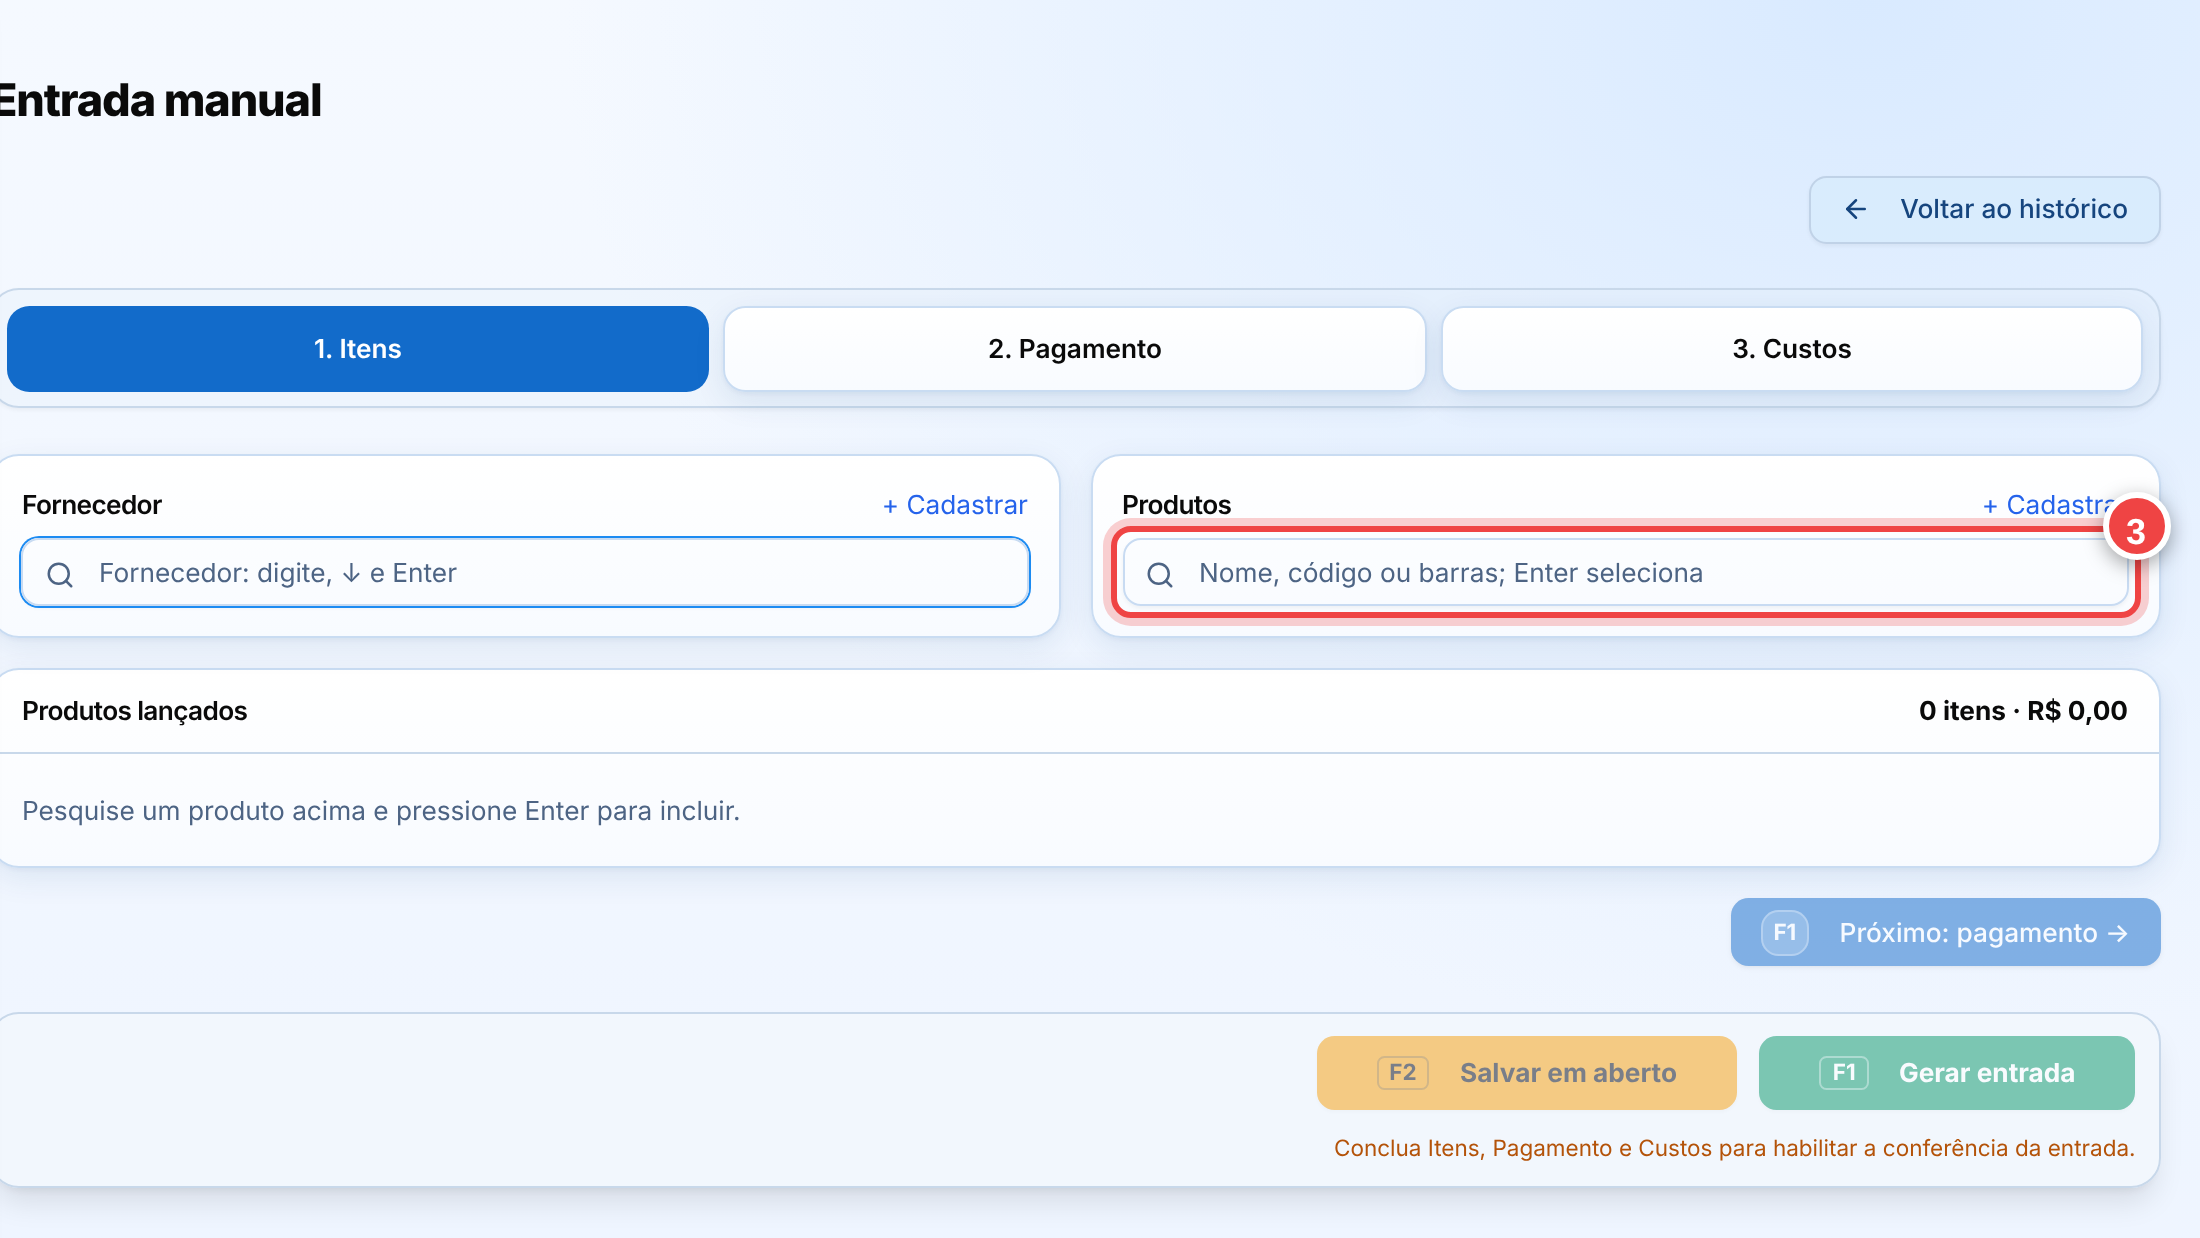
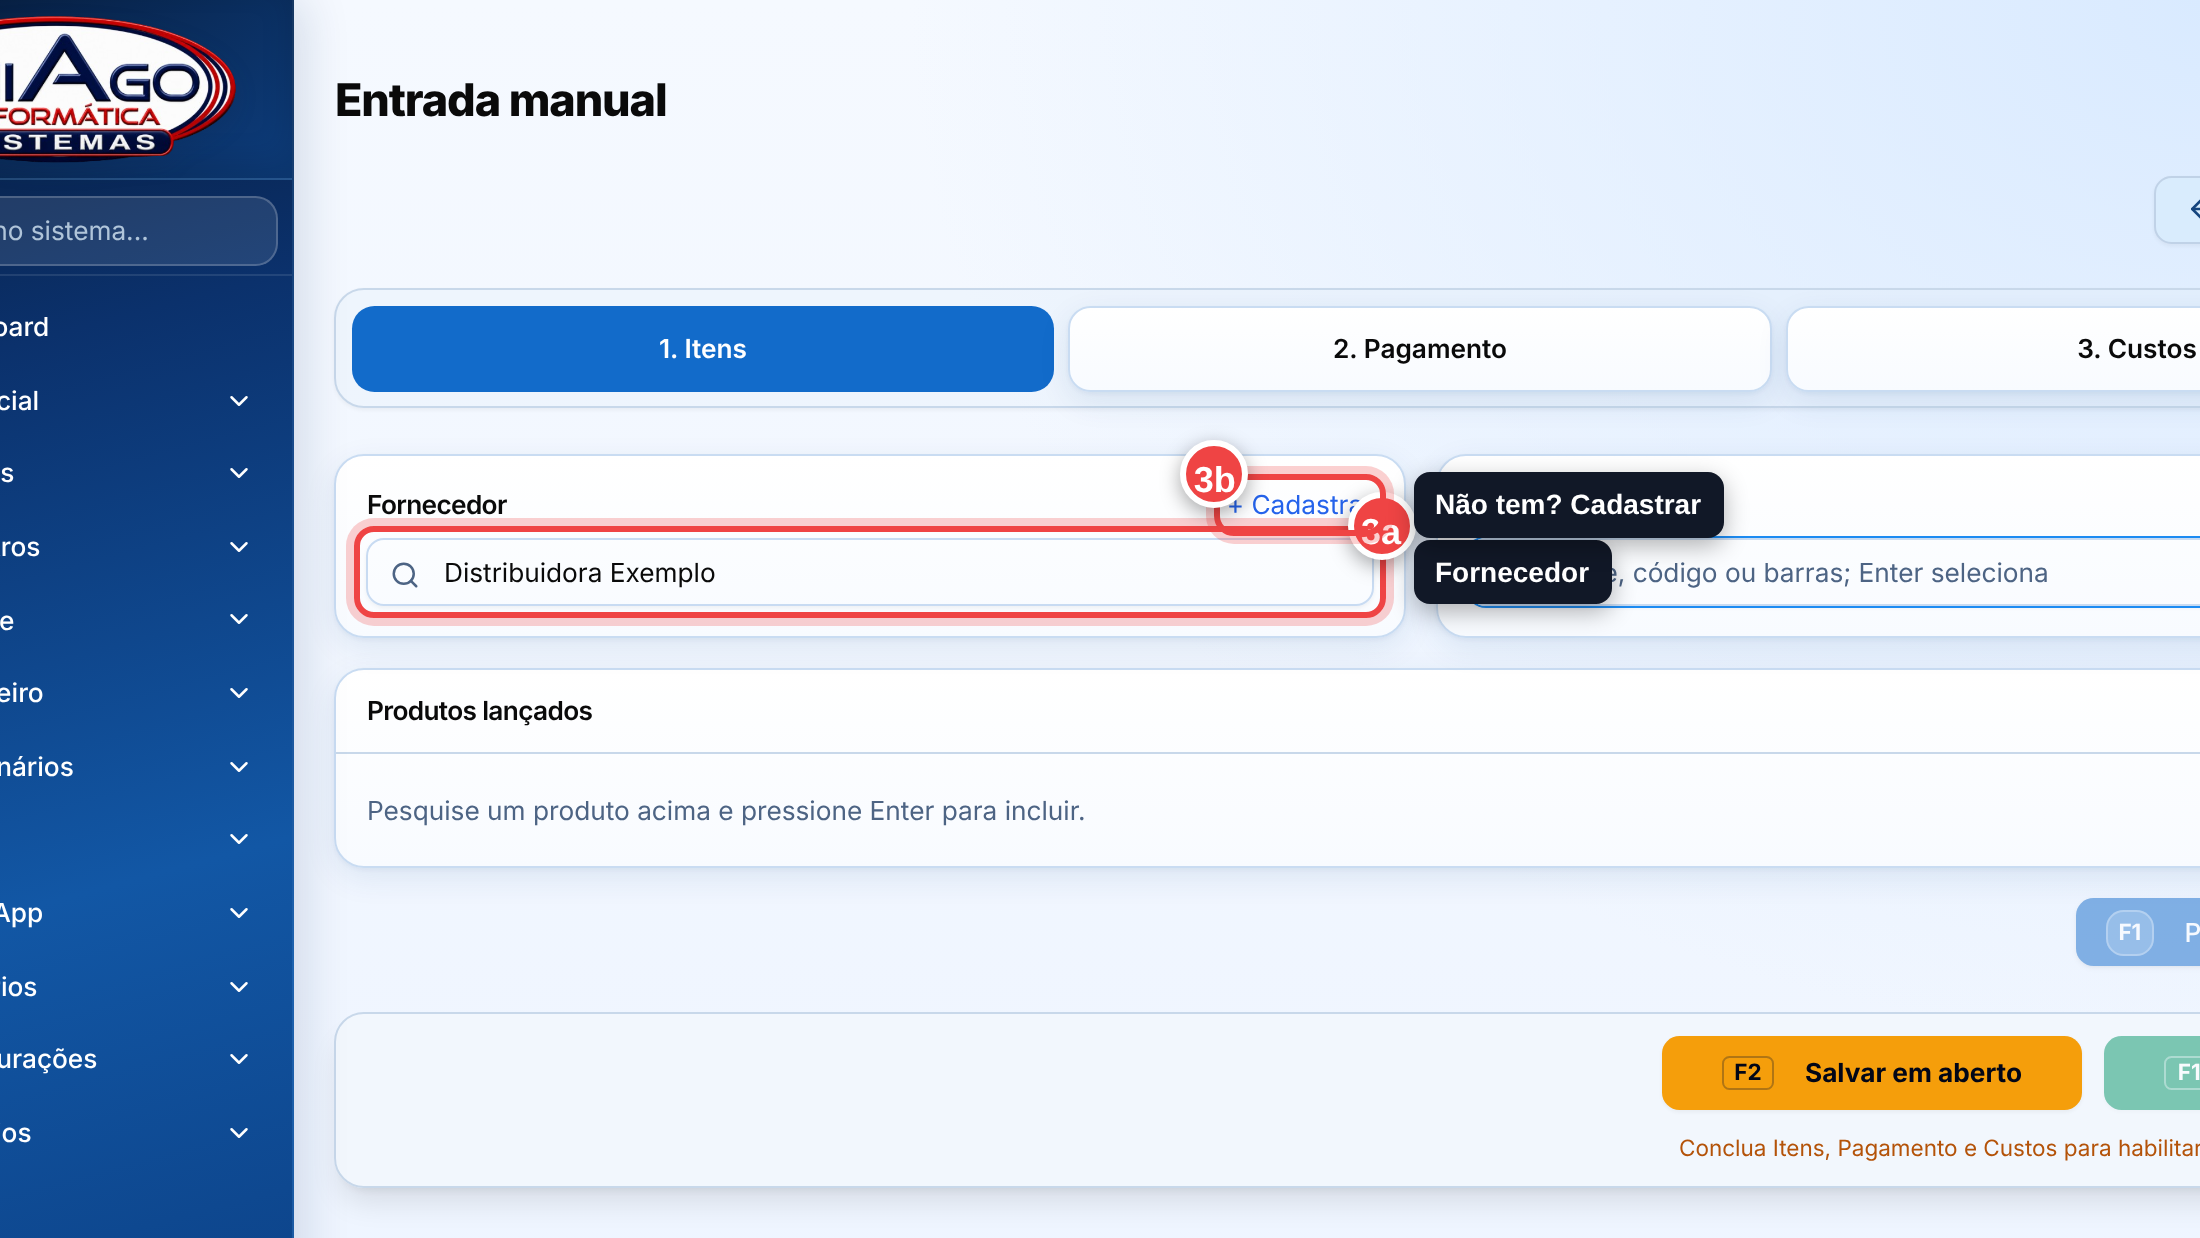
Entrada manual detalhada: roteiro de 15 passos (tributação IA, fiscal, cadastro na hora) e espera cortada no vídeo
Claude-Session: https://claude.ai/code/session_01RyHuxN9gx9DVU1E5ti7Cs8

diff --git a/tutoriais/roteiros/61-entrada-manual.js b/tutoriais/roteiros/61-entrada-manual.js
@@ -1,46 +1,161 @@
+// Entrada manual de mercadoria (sem nota), DETALHADA para cliente leigo (pedido do dono, 27/11/2026): feita de verdade
+// na Demonstração, do começo ao fim. Fornecedor fictício "Distribuidora Exemplo". Um produto NOVO é cadastrado dentro
+// da própria entrada (Carregador Turbo USB-C 20W), com a tributação buscada pela "Tributação IA" e conferida na aba
+// Fiscal (e o que fazer se a busca não achar). Um produto que já existe entra pelo código. Pagamento no Pix, custos,
+// e a entrada é gerada (estoque sobe e o pagamento vai para o contas a pagar).
 module.exports = {
   id: 'entrada-manual',
   ordem: 61,
   grupo: 'Estoque',
-  titulo: 'Entrada manual de mercadoria (sem nota)',
-  resumo: 'Lance uma compra à mão: produtos, pagamento e preço de venda.',
-  antesDeComecar: 'O fornecedor e os produtos podem ser cadastrados na hora, dentro da própria entrada.',
+  titulo: 'Entrada manual de mercadoria, passo a passo',
+  gravaDados: true,
+  valoresReais: true, // custo e preço do produto novo: a conta tem que fechar
+  manter: ['Distribuidora Exemplo', 'Carregador Turbo USB-C 20W', 'FONE DE OUVIDO SEM FIO TWS M25', '25153507', '25,00', '59,90', '85044090', '8504.40.90', '85.04.40.90', '2105300', '21.053.00', '5102', '6102', '5405', '6404'], // NCM/CEST/CFOP de verdade (são do produto, não de cliente)
+  assunto: { chave: ['entrada manual', 'entrada de mercadoria', 'entrada sem nota', 'entrada de nota manual', 'compra', 'mercadoria chegou', 'tributação', 'ncm'], acoes: ['lançar', 'dar', 'fazer', 'cadastrar', 'buscar', 'como', 'entrada'], rotas: ['/estoque/entrada-manual'] },
+  resumo: 'Lance uma compra sem nota do começo ao fim: fornecedor, produto novo com tributação, quantidades, pagamento e custos.',
+  fala: 'Oi! Aqui é o Thiago, da Thiago Informática. Neste vídeo eu vou fazer uma entrada manual de mercadoria, do começo ao fim, bem devagar: inclusive cadastrar um produto novo e buscar a tributação dele. Bora lá!',
+  antesDeComecar: 'Ter o fornecedor em mãos. O produto e o fornecedor podem ser cadastrados na hora, dentro da própria entrada.',
   passos: [
     {
       ir: '/estoque/entrada-manual',
-      titulo: 'Clique em "Nova entrada"',
-      texto: 'No menu, clique em Estoque › Entrada Manual e depois em "Nova entrada" (atalho F1).',
-      marcar: [{ alvo: { papel: 'button', nome: /Nova entrada/ } }],
-      depois: [{ tipo: 'clicar', alvo: { papel: 'button', nome: /Nova entrada/ }, espera: 1500 }],
+      espera: 8000,
+      titulo: 'Abra a Entrada manual',
+      texto: 'No menu, clica em Estoque, Entrada manual. Aqui fica o histórico das suas compras. Pra lançar uma compra nova, é no botão Nova entrada.',
+      marcar: [{ alvo: { papel: 'button', nome: /Nova entrada/ }, legenda: 'Nova entrada' }],
     },
     {
-      titulo: 'Escolha o fornecedor',
-      texto: 'Digite o nome do fornecedor, use a seta para baixo e aperte Enter. Se ele não existe, clique em "+ Cadastrar".',
-      marcar: [{ alvo: { placeholder: 'Fornecedor: digite, ↓ e Enter' } }],
-    },
-    {
-      titulo: 'Lance os produtos',
-      texto: 'Digite o nome, código ou passe o código de barras e aperte Enter. Para cada produto, informe a quantidade e o custo unitário.',
-      marcar: [{ alvo: { placeholder: 'Nome, código ou barras; Enter seleciona' } }],
-    },
-    {
-      titulo: 'Informe o pagamento',
-      texto: 'Clique em "2. Pagamento", escolha a forma (à vista, boleto, a prazo) e as parcelas. As parcelas viram contas a pagar.',
-      marcar: [{ alvo: { papel: 'button', nome: '2. Pagamento' } }],
-    },
-    {
-      titulo: 'Confira os preços de venda',
-      texto: 'Em "3. Custos", veja o novo custo de cada produto. Você pode aplicar uma margem para todos ou manter os preços atuais.',
-      marcar: [{ alvo: { papel: 'button', nome: '3. Custos' } }],
-    },
-    {
-      titulo: 'Clique em "Gerar entrada"',
-      texto: 'Tudo certo? Clique em "Gerar entrada" (F1). O estoque sobe na hora. Se ainda não terminou, use "Salvar em aberto" (F2) e continue depois.',
+      antes: [{ tipo: 'clicar', alvo: { papel: 'button', nome: /Nova entrada/ }, seguro: true, espera: 2000 }],
+      titulo: 'As três etapas',
+      texto: 'Clicou em Nova entrada, a tela tem três etapas: um, os itens; dois, o pagamento; e três, os custos. A gente começa pelos itens.',
       marcar: [
-        { alvo: { papel: 'button', nome: /Salvar em aberto/ }, legenda: 'Continuar depois' },
-        { alvo: { papel: 'button', nome: /Gerar entrada/ }, legenda: 'Concluir' },
+        { alvo: { papel: 'button', nome: '1. Itens' }, legenda: '1 · Itens' },
+        { alvo: { papel: 'button', nome: '2. Pagamento' }, legenda: '2 · Pagamento' },
+        { alvo: { papel: 'button', nome: '3. Custos' }, legenda: '3 · Custos' },
       ],
-      dica: 'Depois de gerar, use "Imprimir etiquetas" para etiquetar os produtos que chegaram.',
+    },
+    {
+      antes: [
+        { tipo: 'preencher', alvo: { placeholder: 'Fornecedor: digite, ↓ e Enter' }, valor: 'Distribuidora Exemplo', espera: 1200 },
+        { tipo: 'esperar', alvo: { css: 'button.block:has-text("Distribuidora Exemplo")' }, espera: 300 },
+        { tipo: 'tecla', tecla: 'Enter', espera: 1200 },
+      ],
+      titulo: 'Escolha o fornecedor',
+      texto: 'Primeiro o fornecedor. Digita o nome de quem vendeu e aperta Enter pra escolher. Se ele ainda não tem cadastro, é só clicar em Cadastrar, aqui do lado, e cadastrar na hora.',
+      marcar: [
+        { alvo: { placeholder: 'Fornecedor: digite, ↓ e Enter' }, legenda: 'Fornecedor' },
+        { alvo: { css: 'div.rounded-2xl:has(h3:text-is("Fornecedor")) button:text-is("+ Cadastrar")' }, legenda: 'Não tem? Cadastrar' },
+      ],
+    },
+    {
+      antes: [{ tipo: 'preencher', alvo: { placeholder: 'Nome, código ou barras; Enter seleciona' }, valor: 'Carregador Turbo USB-C 20W', espera: 1500 }],
+      titulo: 'Produto que ainda não tem cadastro',
+      texto: 'Agora os produtos. Digita o nome, o código, ou bipa o código de barras. Se o produto já tem cadastro, ele aparece na lista e é só dar Enter. Esse carregador ainda não tem: então clica em Cadastrar novo produto.',
+      marcar: [{ alvo: { papel: 'button', nome: /Cadastrar novo produto/ }, legenda: 'Cadastrar novo produto' }],
+      depois: [
+        { tipo: 'clicar', alvo: { papel: 'button', nome: /Cadastrar novo produto/ }, seguro: true, espera: 1500 },
+        { tipo: 'esperar', alvo: { papel: 'heading', nome: 'Novo produto' }, espera: 1500 },
+      ],
+    },
+    {
+      antes: [
+        { tipo: 'preencher', alvo: { css: 'div.space-y-1\\.5:has(> label:text-is("Preço de custo")) input', dentro: 'dialog' }, valor: '25,00', espera: 500 },
+        { tipo: 'preencher', alvo: { css: 'div.space-y-1\\.5:has(> label:text-is("Preço de venda")) input', dentro: 'dialog' }, valor: '59,90', espera: 800 },
+      ],
+      titulo: 'Nome, custo e preço de venda',
+      texto: 'Abre o cadastro do produto, já com o nome que você digitou. Coloca o preço de custo, quanto você pagou, e o preço de venda. A margem é calculada sozinha.',
+      marcar: [
+        { alvo: { css: 'div.space-y-1\\.5:has(> label:text-is("Nome do produto *")) input', dentro: 'dialog' }, legenda: 'Nome' },
+        { alvo: { css: 'div.space-y-1\\.5:has(> label:text-is("Preço de custo")) input', dentro: 'dialog' }, legenda: 'Custo' },
+        { alvo: { css: 'div.space-y-1\\.5:has(> label:text-is("Preço de venda")) input', dentro: 'dialog' }, legenda: 'Venda' },
+      ],
+    },
+    {
+      antes: [
+        { tipo: 'clicar', alvo: { papel: 'button', nome: /Tributação IA/, dentro: 'dialog' }, seguro: true, espera: 800 },
+        { tipo: 'esperar', alvo: { papel: 'button', nome: 'Aplicar no produto' }, espera: 800 },
+      ],
+      titulo: 'Busque a tributação',
+      texto: 'Agora a tributação. Clica em Tributação IA: o sistema pesquisa pelo nome do produto, ou pela foto, e sugere o NCM, o CEST, o CSOSN e o CFOP. Lê com calma e, se estiver certo, clica em Aplicar no produto.',
+      marcar: [{ alvo: { papel: 'button', nome: 'Aplicar no produto' }, legenda: 'Aplicar no produto' }],
+      depois: [{ tipo: 'clicar', alvo: { papel: 'button', nome: 'Aplicar no produto' }, seguro: true, espera: 1500 }],
+    },
+    {
+      antes: [{ tipo: 'clicar', alvo: { papel: 'tab', nome: 'Fiscal', dentro: 'dialog' }, seguro: true, espera: 1500 }],
+      titulo: 'Confira na aba Fiscal',
+      texto: 'Depois, sempre confere na aba Fiscal. Veja se o NCM, o CEST e os CFOPs foram preenchidos.',
+      marcar: [
+        { alvo: { css: 'div.space-y-1\\.5:has(> label:text-is("NCM")) input', dentro: 'dialog' }, legenda: 'NCM' },
+        { alvo: { css: 'div.space-y-1\\.5:has(> label:text-is("CFOP saída (dentro)")) input', dentro: 'dialog' }, legenda: 'CFOP' },
+      ],
+    },
+    {
+      titulo: 'Não achou? Preencha à mão',
+      texto: 'E se a busca não achar, você preenche à mão: digita o NCM de oito números, que vem na nota do fornecedor, ou clica na lupa do lado pra pesquisar. Na dúvida, confirma com o seu contador antes de emitir nota.',
+      marcar: [{ alvo: { css: 'button[aria-label="Pesquisar NCM"]', dentro: 'dialog' }, legenda: 'Pesquisar NCM' }],
+      dica: 'O NCM certo está na nota fiscal de compra do fornecedor: copie de lá.',
+    },
+    {
+      titulo: 'Salve o produto',
+      texto: 'Tudo certo? Clica em Cadastrar. O produto fica salvo e já entra na sua entrada.',
+      marcar: [{ alvo: { papel: 'button', nome: 'Cadastrar', exato: true, dentro: 'dialog' }, legenda: 'Cadastrar' }],
+      depois: [{ tipo: 'clicar', alvo: { papel: 'button', nome: 'Cadastrar', exato: true, dentro: 'dialog' }, aguardarFechar: true, espera: 2000 }],
+    },
+    {
+      antes: [{ tipo: 'preencher', alvo: { css: 'label:has-text("Quantidade") input' }, valor: '10', espera: 900 }],
+      titulo: 'Quantidade e custo',
+      texto: 'Agora coloca a quantidade que chegou, aqui foram dez, e confere o custo de cada um. Se o produto vem em caixa, em Unidades por pacote você diz quantas vêm em cada caixa, e o estoque sobe certinho.',
+      marcar: [
+        { alvo: { css: 'label:has-text("Quantidade") input' }, legenda: 'Quantidade' },
+        { alvo: { css: 'label:has-text("Unid. por pacote") input' }, legenda: 'Por caixa' },
+        { alvo: { css: 'label:has-text("Custo unitário") input' }, legenda: 'Custo' },
+      ],
+    },
+    {
+      antes: [
+        { tipo: 'preencher', alvo: { placeholder: 'Nome, código ou barras; Enter seleciona' }, valor: '25153507', espera: 1500 },
+        { tipo: 'tecla', tecla: 'Enter', espera: 1500 },
+        { tipo: 'preencher', alvo: { css: 'label:has-text("Quantidade") input' }, valor: '5', espera: 900 },
+      ],
+      titulo: 'Produto que já tem cadastro',
+      texto: 'Produto que já tem cadastro é mais rápido: bipa ou digita o código, aperta Enter, e põe a quantidade. Repete pra cada produto da compra.',
+      marcar: [{ alvo: { texto: 'FONE DE OUVIDO SEM FIO TWS M25', exato: true }, legenda: 'Já cadastrado' }],
+    },
+    {
+      antes: [{ tipo: 'clicar', alvo: { papel: 'button', nome: /Próximo: pagamento/ }, seguro: true, espera: 2000 }],
+      titulo: 'Pagamento',
+      texto: 'Clica em Próximo, pagamento. Escolhe como pagou: Pix, dinheiro, boleto ou a prazo. No boleto e no a prazo, você informa as parcelas, e elas já vão para o contas a pagar.',
+      marcar: [
+        { alvo: { css: 'select.border' }, legenda: 'Forma de pagamento' },
+        { alvo: { papel: 'button', nome: /Conferir e avançar para custos/ }, legenda: 'Avançar' },
+      ],
+    },
+    {
+      antes: [
+        { tipo: 'clicar', alvo: { papel: 'button', nome: /Conferir e avançar para custos/ }, seguro: true, espera: 1000 },
+        { tipo: 'esperar', alvo: { texto: 'Gerência de custos', exato: true }, espera: 1000 },
+      ],
+      titulo: 'Custos e preço de venda',
+      texto: 'Clica em Conferir e avançar. Aqui aparece o custo novo de cada produto e o preço de venda. Pode aplicar uma margem pra todos, ou manter os preços que já estão.',
+      marcar: [
+        { alvo: { papel: 'button', nome: 'Aplicar margem a todos' }, legenda: 'Margem para todos' },
+        { alvo: { papel: 'button', nome: 'Manter preços atuais' }, legenda: 'Manter preços' },
+      ],
+    },
+    {
+      titulo: 'Gere a entrada',
+      texto: 'Tudo conferido? Clica em Gerar entrada. O estoque sobe na hora, o custo médio é atualizado, e o pagamento vai para o contas a pagar.',
+      marcar: [{ alvo: { papel: 'button', nome: /Gerar entrada/ }, legenda: 'Gerar entrada' }],
+      depois: [
+        { tipo: 'clicar', alvo: { papel: 'button', nome: /Gerar entrada/ }, espera: 1500 },
+        { tipo: 'esperar', alvo: { papel: 'button', nome: /Nova entrada/ }, espera: 2500 },
+      ],
+      dica: 'Não terminou? Use "Salvar em aberto" e continue depois.',
+    },
+    {
+      antes: [{ tipo: 'esperar', alvo: { texto: 'Concluída', exato: true }, espera: 800 }],
+      titulo: 'Pronto, entrada concluída',
+      texto: 'Pronto! A entrada já aparece aqui no histórico, concluída. Clicando nela, dá pra imprimir as etiquetas dos produtos que chegaram.',
+      marcar: [{ alvo: { texto: 'Concluída', exato: true }, legenda: 'Concluída' }],
     },
   ],
 };

diff --git a/tutoriais/video.js b/tutoriais/video.js
@@ -446,7 +446,9 @@ async function gravar(r, s) {
         const nomeAlvo = a.tipo === 'clicar' && a.alvo && typeof a.alvo.nome === 'string' ? a.alvo.nome : null;
         const q = nomeAlvo ? quandoDiz(fala, nomeAlvo, posFala) : null;
         if (q) { posFala = q.fim; const falta = inicio + q.t - 0.6 - agora(); if (falta > 0) await espera(Math.min(6, falta) * 1000); }
-        await executarVisivel(page, a, r, som, s.clique);
+        // Espera de tela (IA pesquisando, salvando): o tempo parado depois da fala é cortado do vídeo.
+        if (a.tipo === 'esperar') await cortarEspera(() => C.executar(page, a, r), fimDaFala(inicio, fala), 0.8);
+        else await executarVisivel(page, a, r, som, s.clique);
       }
       await C.prepararTela(page);
       await espera(400);
